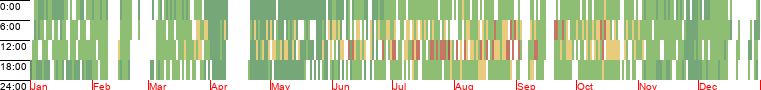
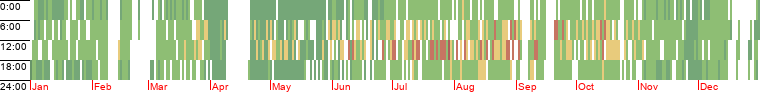
Nicer margins

diff --git a/hourly_temp.py b/hourly_temp.py
@@ -5,7 +5,7 @@ X_FACTOR = 2
 LEFT_MARGIN = 30
 Y_FACTOR = 20
 BOTTOM_MARGIN = 10
-im = Image.new("RGB", (LEFT_MARGIN + X_FACTOR * (7*31 + 4*30 + 28) + 1, Y_FACTOR * 4 + BOTTOM_MARGIN))
+im = Image.new("RGB", (LEFT_MARGIN + X_FACTOR * (7*31 + 4*30 + 28) + 1, Y_FACTOR * 4 + BOTTOM_MARGIN + 5))
 width, height = im.size
 pix = im.load()
 
@@ -24,7 +24,7 @@ for i in range(width):
 
 # Ticks on X-axis
 prev = LEFT_MARGIN
-for x in months:
+for x in months[:-1]:
     prev += X_FACTOR * x
     for y in range(BOTTOM_MARGIN):
         pix[prev, Y_FACTOR * 4 + y] = (255,0,0)
@@ -111,6 +111,6 @@ month_names = [None, 'Jan', 'Feb', 'Mar', 'Apr', 'May', 'Jun', 'Jul', 'Aug', 'Se
 for m, acc in enumerate(accum):
     if m == 0:
         continue
-    draw.text ( (LEFT_MARGIN + X_FACTOR * accum[m] + 1, Y_FACTOR * 4), month_names[m], (255,0,0), font=font)
+    draw.text ( (LEFT_MARGIN + X_FACTOR * accum[m] + 2, Y_FACTOR * 4), month_names[m], (255,0,0), font=font)
 
 im.save(sys.argv[1] + '.png', "PNG")
